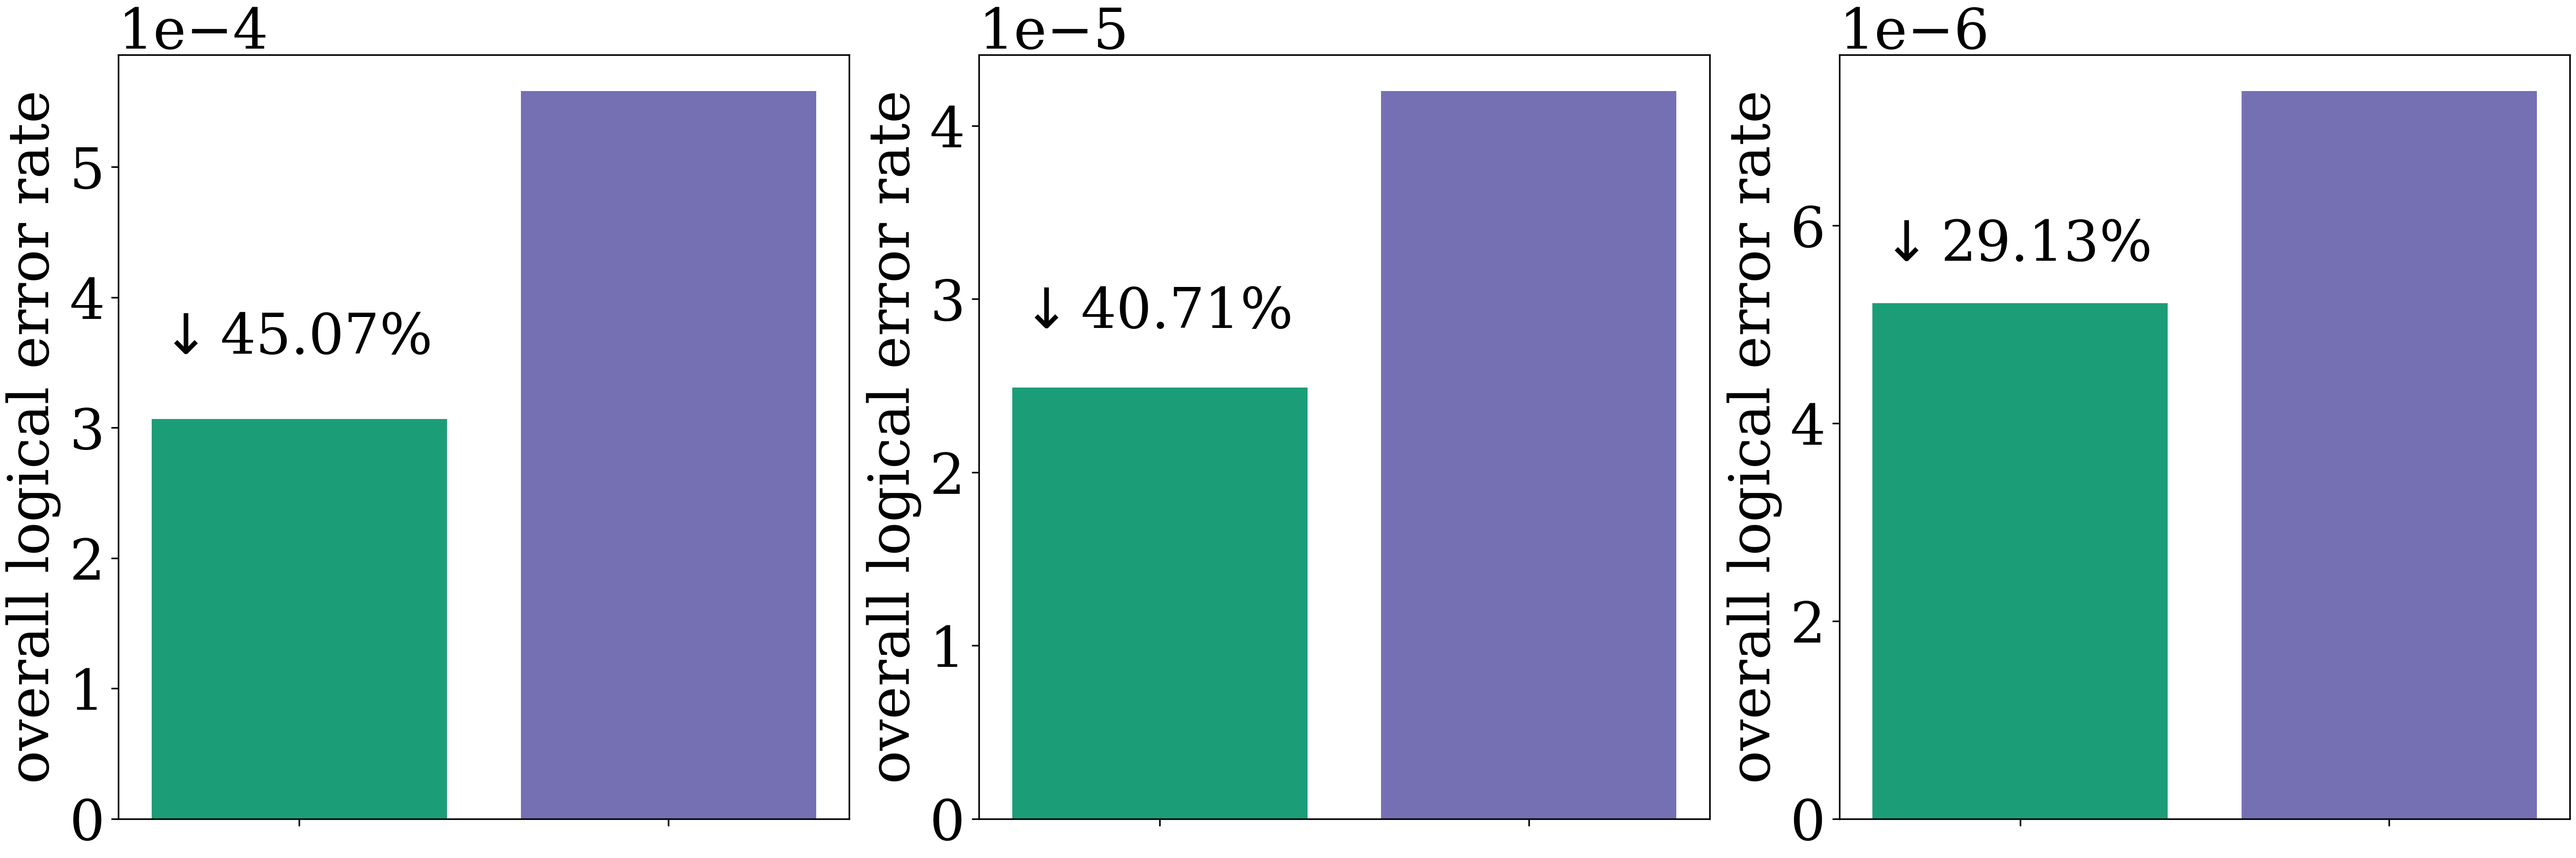
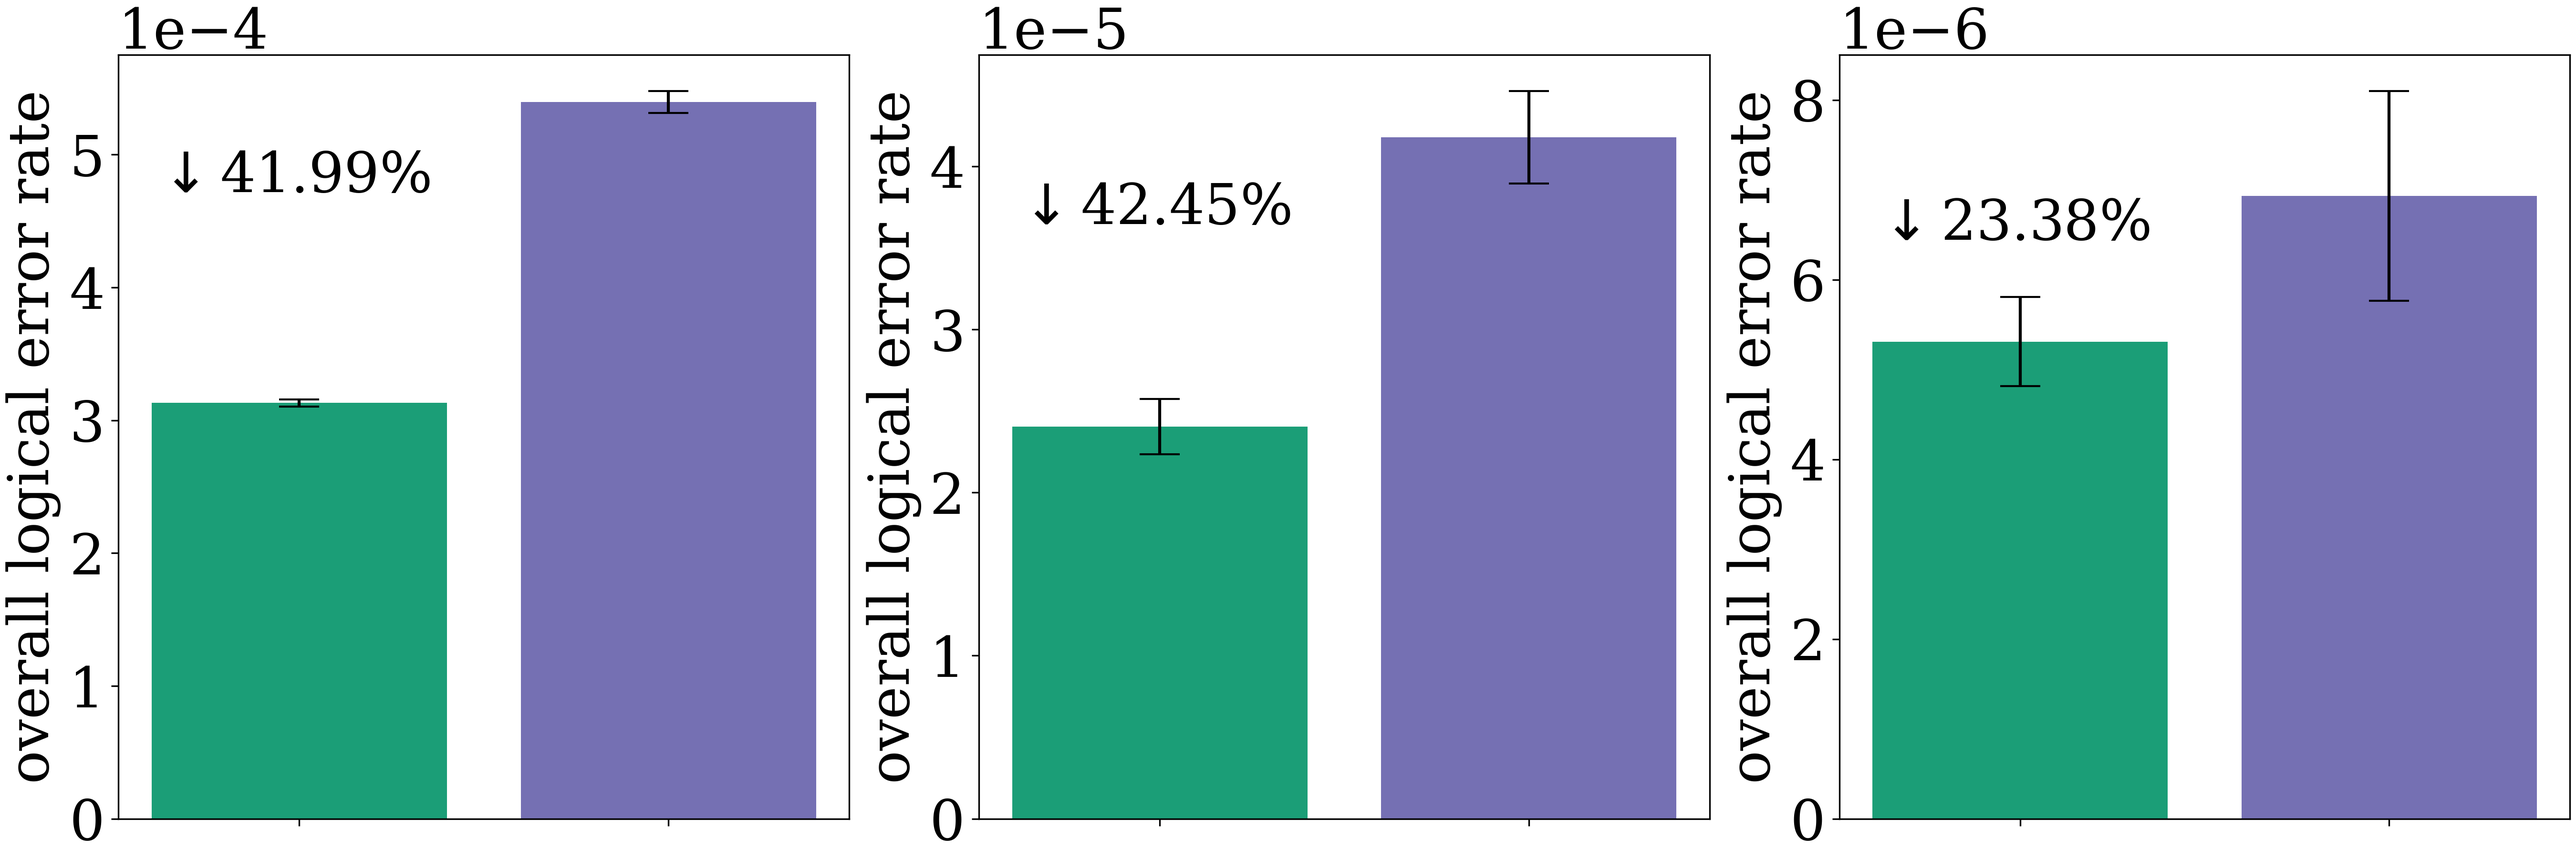
[artifact]

diff --git a/asyndrome/scheduler.py b/asyndrome/scheduler.py
@@ -41,28 +41,54 @@ class Schedule:
     def checks_at_tick(self, tick: int):
         return self.checks[tick]
 
+    def evaluation_circuit(self, code: CSSCode, error_model: ErrorModel):
+        z_circuit = evaluate_circuit(
+            code,
+            self,
+            code.x_stabilizers + code.z_stabilizers,
+            code.logical_xs,
+            error_model,
+        )
+
+        x_circuit = evaluate_circuit(
+            code,
+            self,
+            code.x_stabilizers + code.z_stabilizers,
+            code.logical_zs,
+            error_model,
+        )
+
+        return z_circuit, x_circuit
+
     def evaluate(
         self, code: CSSCode, decoder: str, error_model: ErrorModel, nshots: int
     ):
         with decoder_agent(decoder, (code.n, code.k, code.d)) as agent:
-            z_circuit = evaluate_circuit(
-                code,
-                self,
-                code.x_stabilizers + code.z_stabilizers,
-                code.logical_xs,
-                error_model,
-            )
-            x_circuit = evaluate_circuit(
-                code,
-                self,
-                code.x_stabilizers + code.z_stabilizers,
-                code.logical_zs,
-                error_model,
-            )
+            z_circuit, x_circuit = self.evaluation_circuit(code, error_model)
+
             z_flips = agent.simulate(z_circuit, nshots)
             x_flips = agent.simulate(x_circuit, nshots)
 
             return x_flips / nshots, z_flips / nshots
+
+    def distance(self, code: CSSCode, error_model: ErrorModel):
+        z_circuit, x_circuit = self.evaluation_circuit(code, error_model)
+        return min(
+            len(
+                z_circuit._circuit.search_for_undetectable_logical_errors(
+                    dont_explore_detection_event_sets_with_size_above=code.d + 2,
+                    dont_explore_edges_with_degree_above=code.d + 2,
+                    dont_explore_edges_increasing_symptom_degree=True,
+                )
+            ),
+            len(
+                x_circuit._circuit.search_for_undetectable_logical_errors(
+                    dont_explore_detection_event_sets_with_size_above=code.d + 2,
+                    dont_explore_edges_with_degree_above=code.d + 2,
+                    dont_explore_edges_increasing_symptom_degree=True,
+                )
+            ),
+        )
 
     def evaluate_overall(
         self, code: CSSCode, decoder: str, error_model: ErrorModel, nshots: int

diff --git a/evaluate-nonuniform.py b/evaluate-nonuniform.py
@@ -1,8 +1,10 @@
+from statistics import mean, stdev
 import sys
 
 import matplotlib as mpl
 from matplotlib import pyplot as plt
 from matplotlib import patches
+from tqdm import tqdm
 
 import asyndrome
 
@@ -31,7 +33,7 @@ elif action == "evaluate":
     plt.rcParams["font.family"] = "serif"
 
     for i, distance in enumerate((3, 5, 7)):
-        print(f"  Distance {distance}...", end=" ", flush=True)
+        print(f"  Distance {distance}...")
         code = asyndrome.CSSCode.from_file(f"qecc/surface-{distance}x{distance}.json")
         error_model = asyndrome.NonUniformBrisbane(code.n, code.ancillas, 2)
 
@@ -42,13 +44,26 @@ elif action == "evaluate":
             f"results/nonuniform/surface-{distance}x{distance}.json"
         )
 
-        nshots = 2000000 * distance
+        nshots = 10000000
 
-        xrate, zrate = google_schedule.evaluate(code, "pymatching", error_model, nshots)
-        google_data = 1 - (1 - xrate) * (1 - zrate)
+        google_datas = []
+        alpha_datas = []
 
-        xrate, zrate = alpha_schedule.evaluate(code, "pymatching", error_model, nshots)
-        alpha_data = 1 - (1 - xrate) * (1 - zrate)
+        for _ in tqdm(range(10)):
+            xrate, zrate = google_schedule.evaluate(
+                code, "pymatching", error_model, nshots
+            )
+            google_data = 1 - (1 - xrate) * (1 - zrate)
+            google_datas.append(google_data)
+
+            xrate, zrate = alpha_schedule.evaluate(
+                code, "pymatching", error_model, nshots
+            )
+            alpha_data = 1 - (1 - xrate) * (1 - zrate)
+            alpha_datas.append(alpha_data)
+
+        alpha_data = mean(alpha_datas)
+        google_data = mean(google_datas)
 
         print("Plotting")
 
@@ -60,12 +75,15 @@ elif action == "evaluate":
         ax.bar(
             ["AlphaSyndrome", "Google"],
             [alpha_data, google_data],
+            yerr=[stdev(alpha_datas), stdev(google_datas)],
             color=[colors[0], colors[2]],
+            ecolor="black",
+            error_kw={"capsize": 10},
         )
 
         ax.text(
             -0.4,
-            (alpha_data * 0.8 + google_data * 0.2),
+            (alpha_data * 0.3 + google_data * 0.7),
             f"$\\downarrow${(google_data - alpha_data) * 100 / google_data:.2f}%",
         )
 

diff --git a/artifact.py b/artifact.py
@@ -1,0 +1,76 @@
+import sys
+import os
+import shutil
+
+
+def table2():
+    print("Expect duration: ~10mins")
+    for case in (
+        "color-hex",
+        "color-oct",
+        "hypercolor",
+        "hypersurface",
+        "defect",
+    ):
+        decoders = "bp_osd,hypergraph_union_find"
+        if case == "hypercolor":
+            decoders = "hypergraph_union_find"
+        elif case in ("hypersurface", "xzzx", "defect"):
+            decoders = "pymatching"
+
+        os.system(f"python3 experiment-general.py {case} -d {decoders}")
+
+
+def table3():
+    print("Expect duration: ~5mins")
+    os.system("python3 experiment-crossdec.py")
+
+
+def figure12():
+    print("Expect duration: ~2mins")
+    os.system("python3 experiment-surface.py")
+
+
+def figure13():
+    print("Expect duration: ~2mins")
+    os.system("python3 experiment-bbcode.py")
+
+
+def figure14():
+    print("Expect duration: ~2mins")
+    for code in ("color-hex-3", "hypercolor-24-8-4-4", "hypersurface-30-8-3-3"):
+        os.system(f"python3 experiment-scaling.py evaluate {code}")
+
+
+def figure15():
+    print("Expect duration: ~15mins")
+    for action in ("evaluate", "plot"):
+        os.system(f"python3 experiment-nonuniform.py {action}")
+
+
+if len(sys.argv) != 2:
+    print(
+        "This is the artifact evaluation script, to use, input the result (table, figure) you want to reproduce."
+    )
+
+    print(
+        "The script will run the evaluation and output the result in the corresponding folder."
+    )
+
+asset = sys.argv[1]
+
+if asset not in ("table2", "table3", "figure12", "figure13", "figure14", "figure15"):
+    print("The asset you want to reproduce does not exist.")
+    exit(-1)
+
+print(
+    f"Reproducing asset: {asset}. The result will be output to the folder 'asset' with the same name."
+)
+
+if os.path.exists(f"./asset/{asset}"):
+    print("Previous asset exists, deleting.")
+    shutil.rmtree(f"./asset/{asset}")
+
+os.makedirs(f"./asset/{asset}", exist_ok=True)
+
+globals()[asset]()
